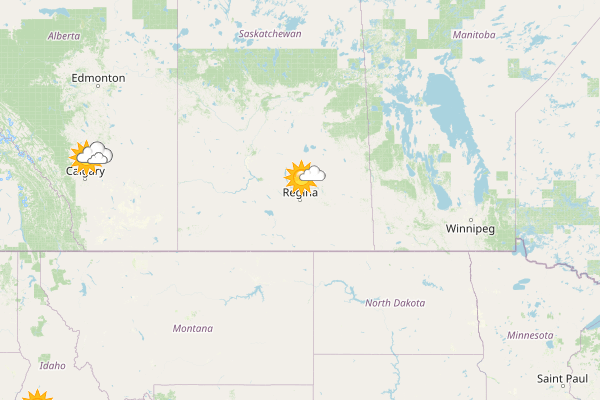
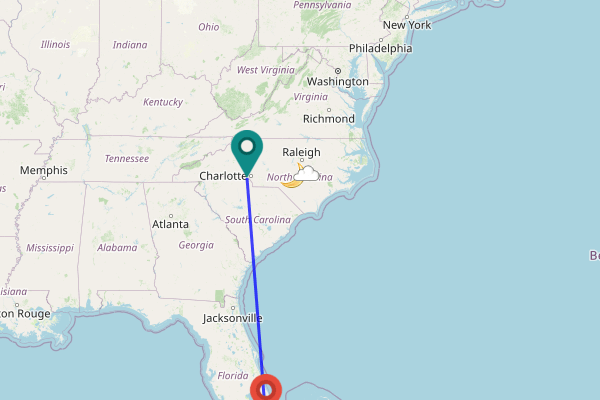
implemented change page.

diff --git a/controllers/controller.js b/controllers/controller.js
@@ -4,6 +4,7 @@ weather.setAPPID(apiKey);
 weather.setLang("en");
 weather.setUnits('metric');
 
+const removeDuplicatesFromArray = require("remove-duplicates-array") //Removes duplicates from an array. 
 const forecast = require("weather-js"); //Node Module used to get the 3 day weather forecast.
 const dateFormat = require("fecha"); //Node Module used to format the date.
 const fetch = require("node-fetch");
@@ -175,3 +176,63 @@ exports.travelShow = (request, response) => {
       });
       return;
   } 
+  
+exports.compareShow = (request, response) => {
+    
+    let cities = Object.values(request.body); //Stores an array of the cities entered.
+    cities = removeDuplicatesFromArray(cities); //Removes duplicate cities or zipcodes from the array.
+    let citiesWeather = [];
+    let weatherMarker1 = {};
+    let weatherMarker2 = {};
+    let weatherMarker3 = {};
+
+    forecast.find({search: cities[0], degreeType: "F"}, (err, data) => {
+        
+        citiesWeather.push(data[0]);
+
+        forecast.find({search: cities[1], degreeType: "F"}, (err, data) => { 
+            citiesWeather.push(data[0]);
+                
+                forecast.find({search: cities[1], degreeType: "F"}, (err, data) => {
+                    citiesWeather.push(data[0]);
+
+                    weatherMarker1 = {
+                        img: citiesWeather[0].current.imageUrl,
+                        coord: [parseFloat(citiesWeather[0].location.long), parseFloat(citiesWeather[0].location.lat)],
+                        width: 55,
+                        height: 45,
+                    };
+
+                    weatherMarker2 = {
+                        img: citiesWeather[1].current.imageUrl,
+                        coord: [parseFloat(citiesWeather[1].location.long), parseFloat(citiesWeather[1].location.lat)],
+                        width: 55,
+                        height: 45,
+                    };
+
+                    weatherMarker3 = {
+                        img: citiesWeather[2].current.imageUrl,
+                        coord: [parseFloat(citiesWeather[2].location.long), parseFloat(citiesWeather[2].location.lat)],
+                        width: 55,
+                        height: 45,
+                    };
+
+                    map.addMarker(weatherMarker1); 
+                    map.addMarker(weatherMarker2); 
+                    map.addMarker(weatherMarker3);
+
+                    async function renderMap (){
+                        await map.render(null, 5);
+                        await map.image.save('public/images_for_weather/compare.png');
+                    };
+
+                    renderMap()
+                    .then(result =>{
+                        return response.render("compare.ejs", {citiesWeather}); 
+                    })
+                    .catch(err => console.log(err))
+            });
+        });
+    });
+
+};

diff --git a/routes/router.js b/routes/router.js
@@ -21,5 +21,8 @@ router.post("/locus", controller.locusShow);
 //POST "/travel": Render the Travel page with the API information.
 router.post("/travel", controller.travelShow);
 
+//POST "/compare": Render the Travel page with the API information.
+router.post("/compare", controller.compareShow);
+
 
 module.exports = router;
